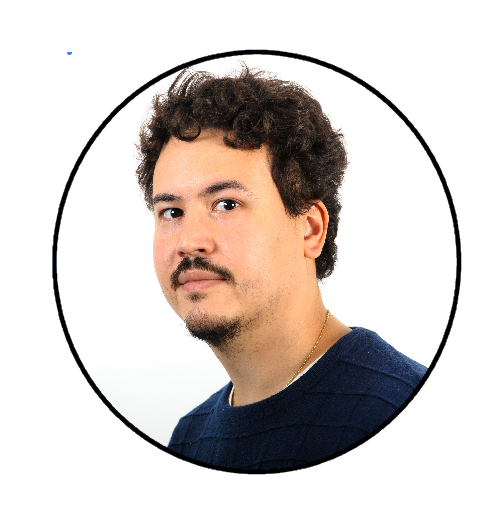
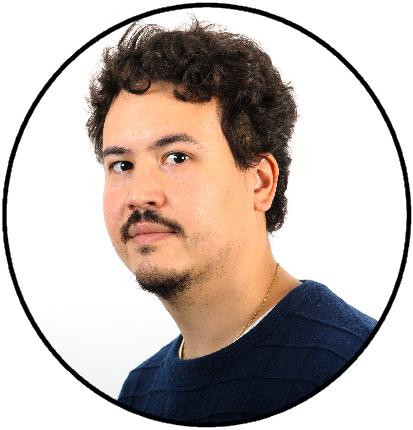
added google font and updated img

diff --git a/src/styles/stylesheet.scss b/src/styles/stylesheet.scss
@@ -1,3 +1,9 @@
+@import url('https://fonts.googleapis.com/css?family=Black+Ops+One|Bungee+Shade|Cutive+Mono|Josefin+Sans|Sirin+Stencil');
+$font-josephin: 'Josefin Sans', sans-serif;
+$font-sirin: 'Sirin Stencil', cursive;
+$font-blackOps: 'Black Ops One', cursive;
+$font-Bungee: 'Bungee Shade', cursive;
+$font-mono: 'Cutive Mono', monospace;
 
 $asidePanelColor : lighten(white, 15% );
 $topPanelColor :  saturate( white, 5% );
@@ -9,6 +15,7 @@ body
   box-sizing:border-box;
   display:flex;
   flex-direction: column;
+    font-family: $font-josephin;
   #main{
     width:80%;
     background-color: white;
@@ -88,8 +95,9 @@ aside{
 #name2{
   #myphoto{
     zoom:30%;
-    vertical-align: -380px;
+    //vertical-align: -380px;
   }
+  font-family: $font-blackOps;
   font-size:40pt;
 //vertical-align: middle;
 }

diff --git a/src/components/HomePage.js b/src/components/HomePage.js
@@ -15,7 +15,7 @@ const HomePage = () => {
                     </article>
 
                     <article id="name2">
-                        Hugo <img id="myphoto" src="./img/hca.png" /> Cantacuzene
+                        <img id="myphoto" src="./img/hca.png" /> <br/>Hugo Cantacuzene
                     </article>
 
                     <article id="github">
